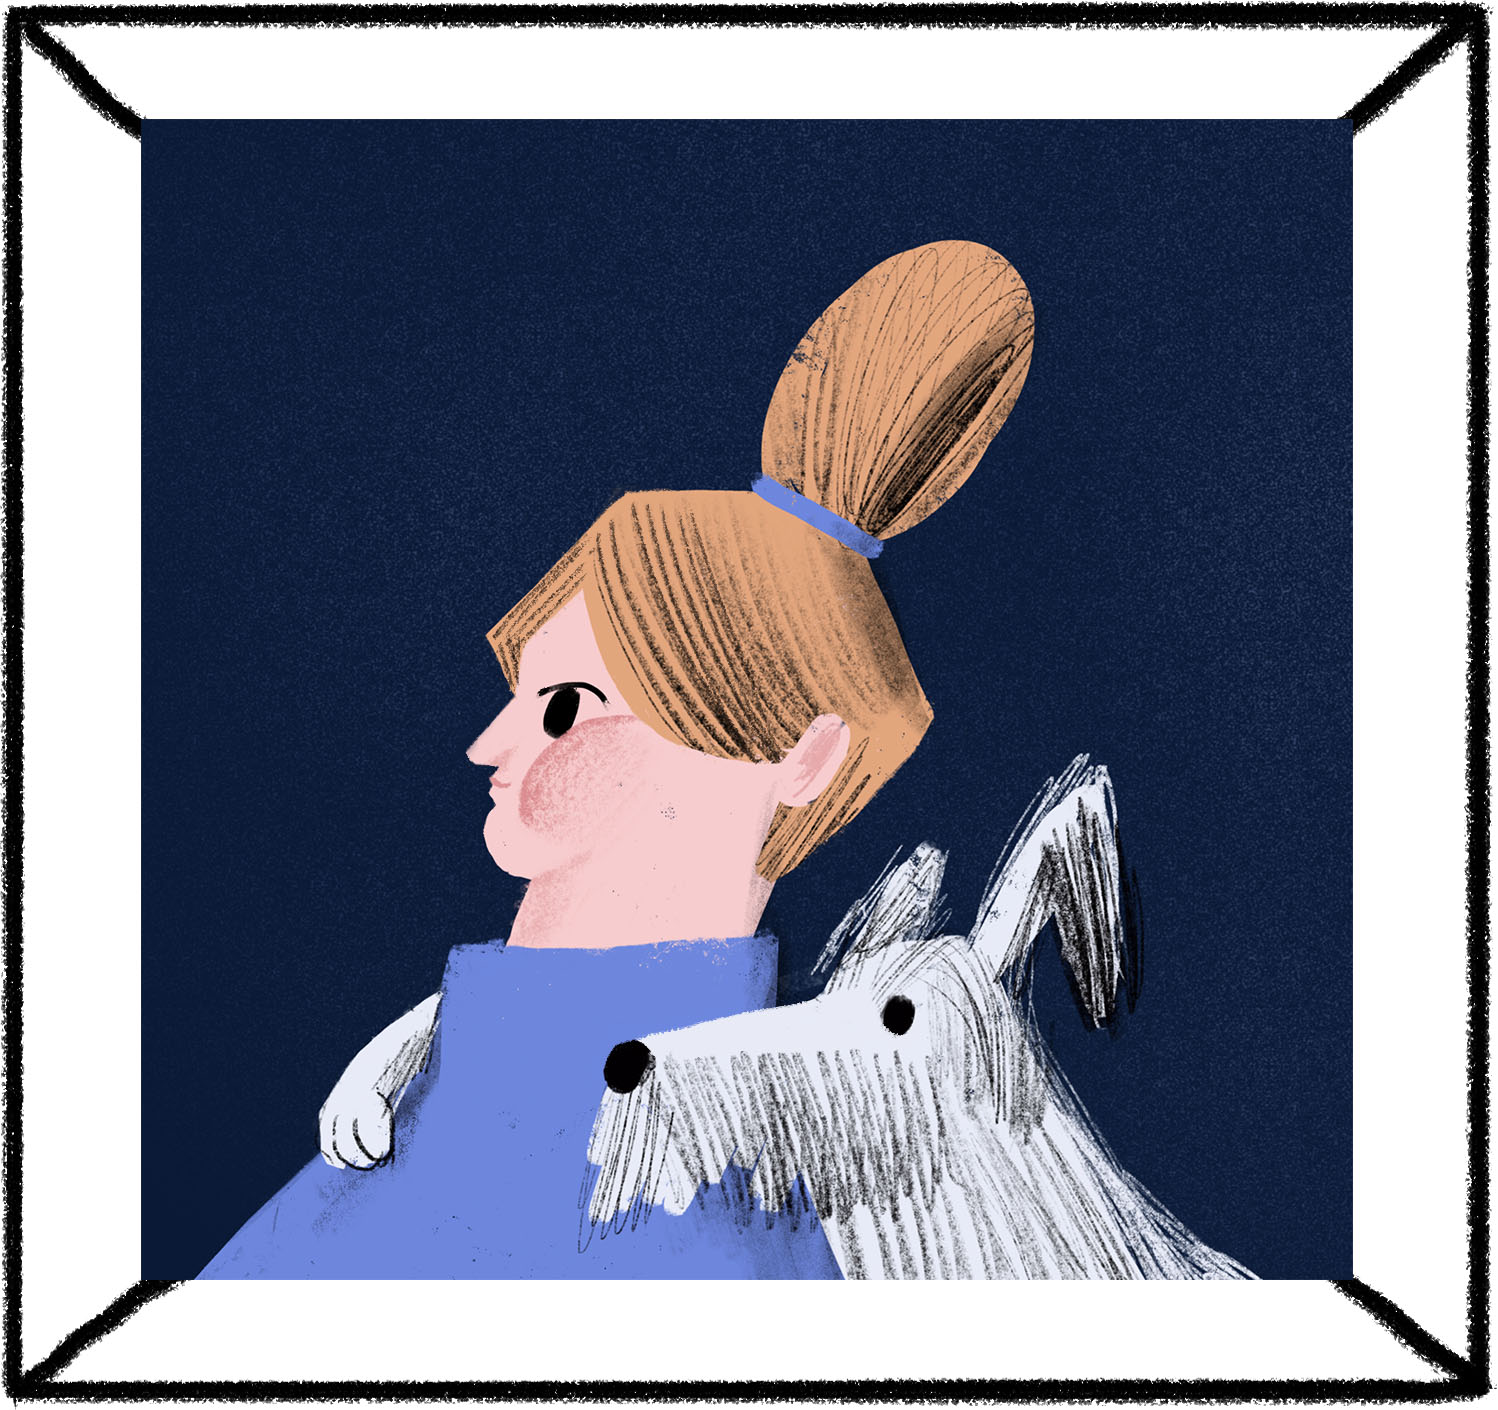
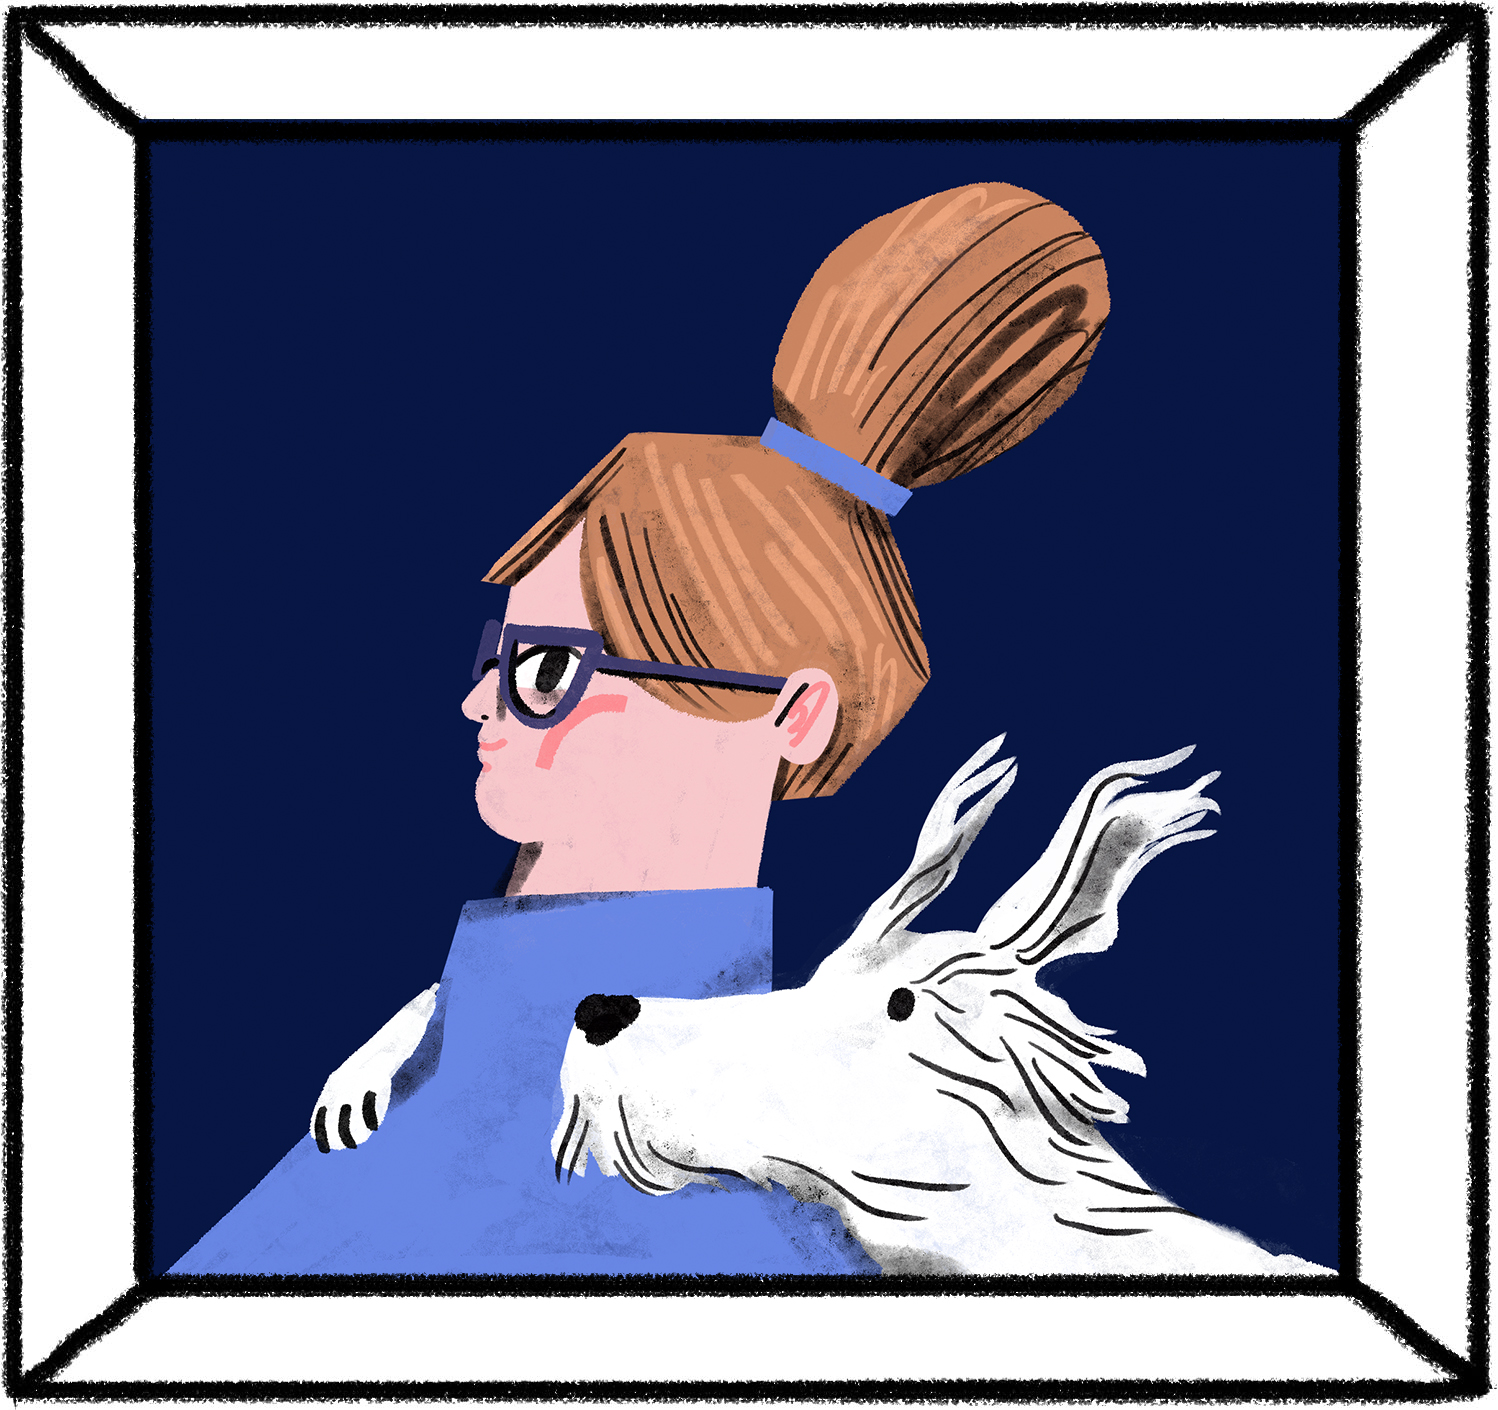
[UPDATE] Social image

Changed region(s): [[0.0614, 0.0624, 0.9212, 0.9362]]

diff --git a/pages/raster.tsx b/pages/raster.tsx
@@ -20,7 +20,7 @@ const RasterPage = () => {
     { path: 'BEER-IPA.jpg', size: [ 1536, 1024 ] },
     { path: 'Blossom.jpg', size: [ 1024, 1024 ] },
     { path: 'Christmas_.jpg', size: [ 1024, 1024 ] },
-    { path: 'Christmas.jpg', size: [ 1024, 1024 ] },
+    { path: 'Christmasanimation.gif', size: [ 1024, 1024 ] },
     { path: 'Dinner-september.jpg', size: [ 1536, 1024 ] },
     { path: 'Coffee.jpg', size: [ 717, 1024 ] },
     { path: 'Degustation-may.jpg', size: [ 1536, 1024 ] },

diff --git a/pages/vector.tsx b/pages/vector.tsx
@@ -19,7 +19,7 @@ const VectorPage = () => {
     { path: 'Screenshot 2021-03-09 at 10.21.54.jpg', size: [ 1096, 1024 ] },
     { path: 'Screenshot 2021-11-14 at 21.24.59.jpg', size: [ 1024, 1024 ] },
     { path: 'Serfer_1.jpg', size: [ 1024, 1024 ] },
-    { path: 'maccafe-4.jpg', size: [ 1024, 1024 ] },
+    { path: 'maccafe.gif', size: [ 1024, 1024 ] },
 
     { path: 'babushka.jpg', size: [ 2000, 2000 ] },
     { path: 'city_2colors.jpg', size: [ 2000, 1500 ] },

diff --git a/components/Nav.tsx b/components/Nav.tsx
@@ -17,7 +17,7 @@ const Nav = ({ page } : Props) => {
   const menuItems = [
     { value: 'raster', label: 'raster' },
     { value: 'vector', label: 'vector' },
-    // { value: 'sketch', label: 'sketch' },
+    { value: 'sketch', label: 'sketch' },
     { value: 'me', label: 'me' },
   ];
 

diff --git a/components/Footer.tsx b/components/Footer.tsx
@@ -12,7 +12,7 @@ const Footer = ({  } : Props) => {
     <>
       <footer>
         <div className="container">
-          &copy; Copyright 2020, Mari Kinovych. All rights reserved
+          &copy; Copyright 2022, Mari Kinovych. All rights reserved
         </div>
       </footer>
     </>
